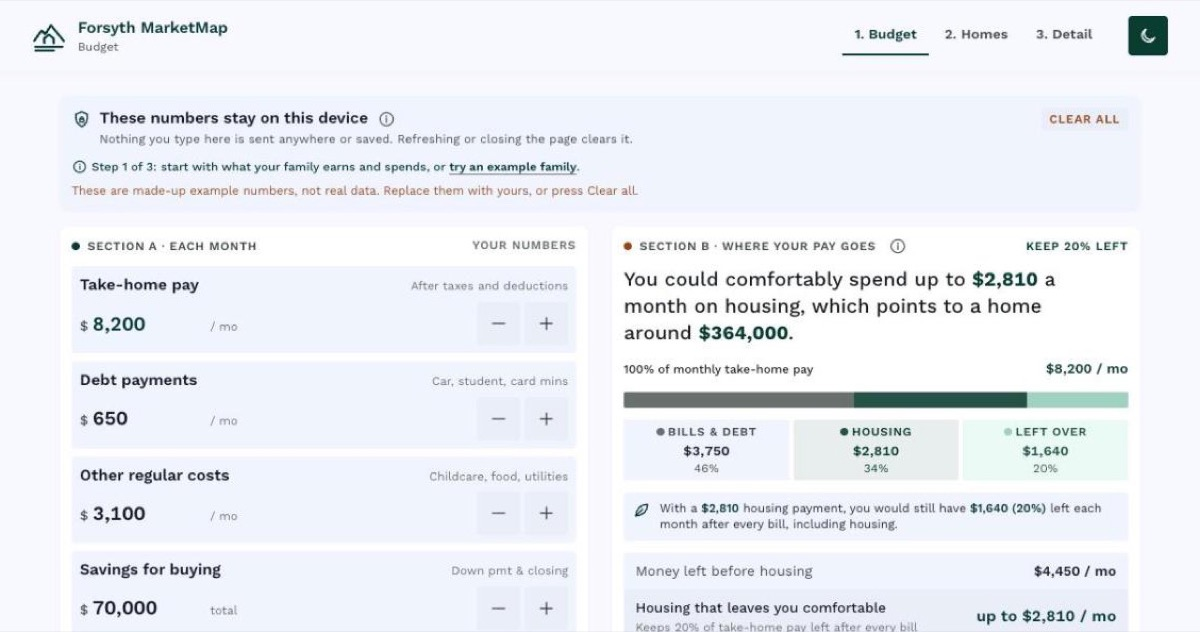
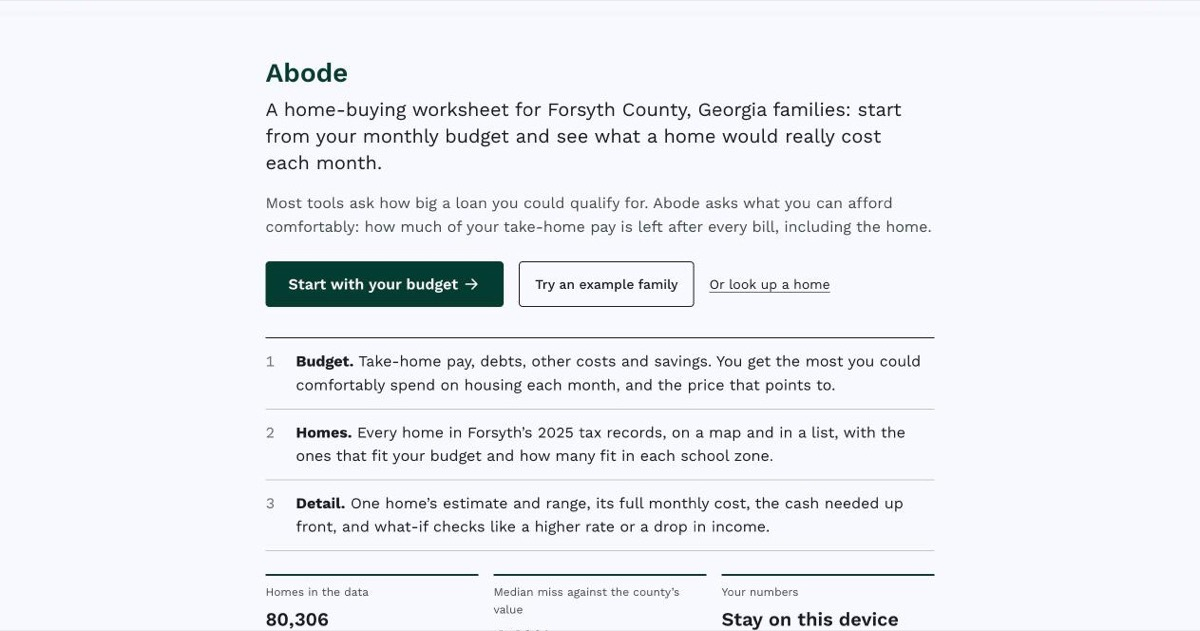
New screenshot of the home page; README and NEEDS_OWNER for the rename
- docs/screenshot.jpg (also the link preview) now shows the Abode home
  page at 1280 px
- README mentions the home page and the old name; NEEDS_OWNER notes
  that the name hasn't been checked against other apps or trademarks
  and drops the touch-tooltip item, which is done
- The logo link uses its visible text as its name (Lighthouse flagged
  the old label as not matching what's on screen)

diff --git a/index.html b/index.html
@@ -633,7 +633,7 @@ footer .aside { color: var(--outline); font-size: var(--fs-sm); margin-top: var(
 
 <header class="mast">
   <div class="mast-in">
-    <a class="app-id" href="#/" aria-label="Abode home">
+    <a class="app-id" href="#/">
       <svg class="app-mark" viewBox="0 0 32 32" width="34" height="34" aria-hidden="true" focusable="false">
         <path d="M2 21 L9 11 L12.5 14.5 L18 6 L30 21" fill="none" stroke="currentColor" stroke-width="2.2" stroke-linejoin="round" stroke-linecap="round"/>
         <path d="M11.5 23 V18.5 L16 15 L20.5 18.5 V23" fill="none" stroke="currentColor" stroke-width="2.2" stroke-linejoin="round" stroke-linecap="round"/>

diff --git a/README.md b/README.md
@@ -1,6 +1,6 @@
 # Abode
 
-A budget-first home planner for Forsyth County, GA. You enter your monthly take-home pay, debts, regular costs and savings, and it shows which homes fit and why a home is estimated at the price it is.
+Abode (earlier called Forsyth MarketMap) is a budget-first home planner for Forsyth County, GA. You enter your monthly take-home pay, debts, regular costs and savings, and it shows which homes fit and why a home is estimated at the price it is.
 
 ![Abode home screen](docs/screenshot.jpg)
 
@@ -14,6 +14,7 @@ A budget-first home planner for Forsyth County, GA. You enter your monthly take-
 
 ## What it does
 
+- **Home page.** What the app does and the question it answers, with three ways in: start with your budget, try an example family, or look up a home.
 - **Budget.** You enter take-home pay, debts, other regular costs and savings (or press “try an example family”). It says how much you could spend on housing each month and still keep 20% of take-home pay, and the price that points to.
 - **Homes.** Every Forsyth home in the 2025 tax records, on a map and in a list, with filters for size, year, lot, school zones and “fits my budget”. The list can be sorted by how close each home is to your budget.
 - **Detail.** For one home: the estimate and its 80% range, the likely sale price, why the estimate is what it is, the full monthly cost (loan, tax, insurance, mortgage insurance, HOA dues), a comfort label, the cash needed up front, interest over the loan, and what-if sliders for the rate, the down payment and an income drop. Up to three homes can be compared side by side.

diff --git a/NEEDS_OWNER.md b/NEEDS_OWNER.md
@@ -38,9 +38,10 @@ Things the planner can't fill in without you checking a primary source or making
 
 - **Preapproval and appraisal in “Next steps”.** The brief asked for them, but the CFPB pages checked (owning-a-home/prepare and /close) don't mention them, so only the steps those pages do mention are listed. Add them if you find an official page that covers them.
 - **FHA and VA loan choices.** Their insurance and funding-fee rules would need official sources; skipped.
-- **Touch tooltips on the map.** A tap opens the home right away; the list below the map has the same homes.
 
 ## Your call
+
+- **The name Abode.** Picked on Oct 25, 2026. I didn't check trademarks or other apps with the same name; worth a quick search before the submission.
 
 - **The Method page.** You asked for methodology in small (i) panels instead of its own page, so that is how it is built. The brief had asked for a page.
 - **Merging and deploying.** All of this is on the `polish` branch. Push it to `main` when you're happy: `git push origin polish:main` from the CAC26 folder.
